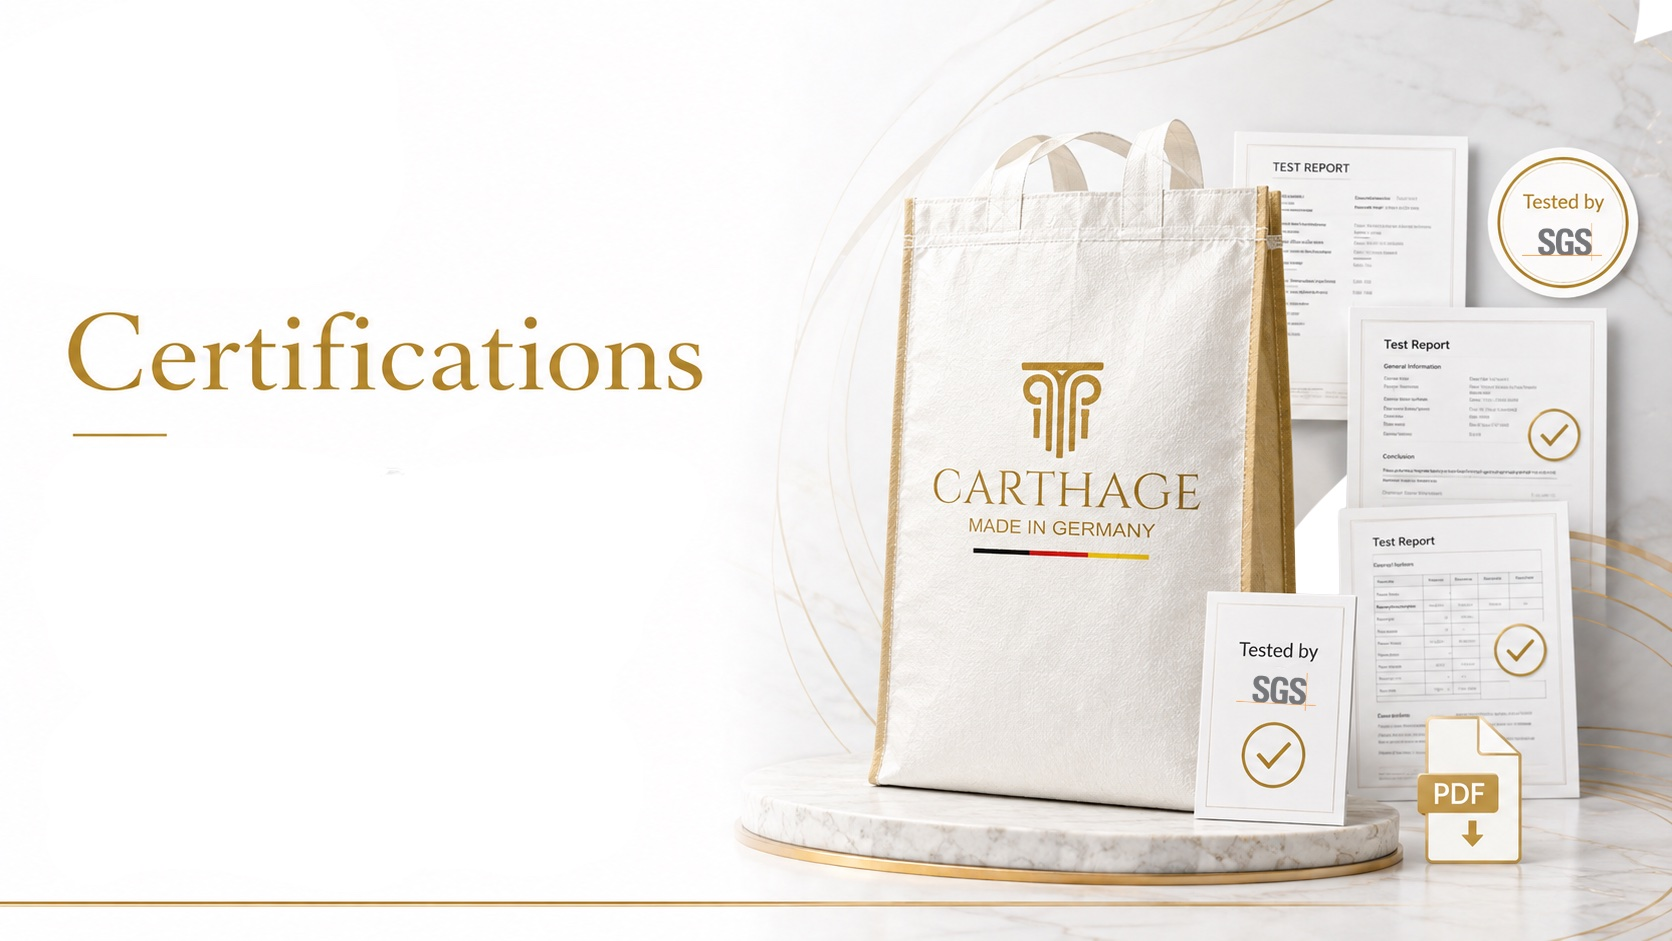
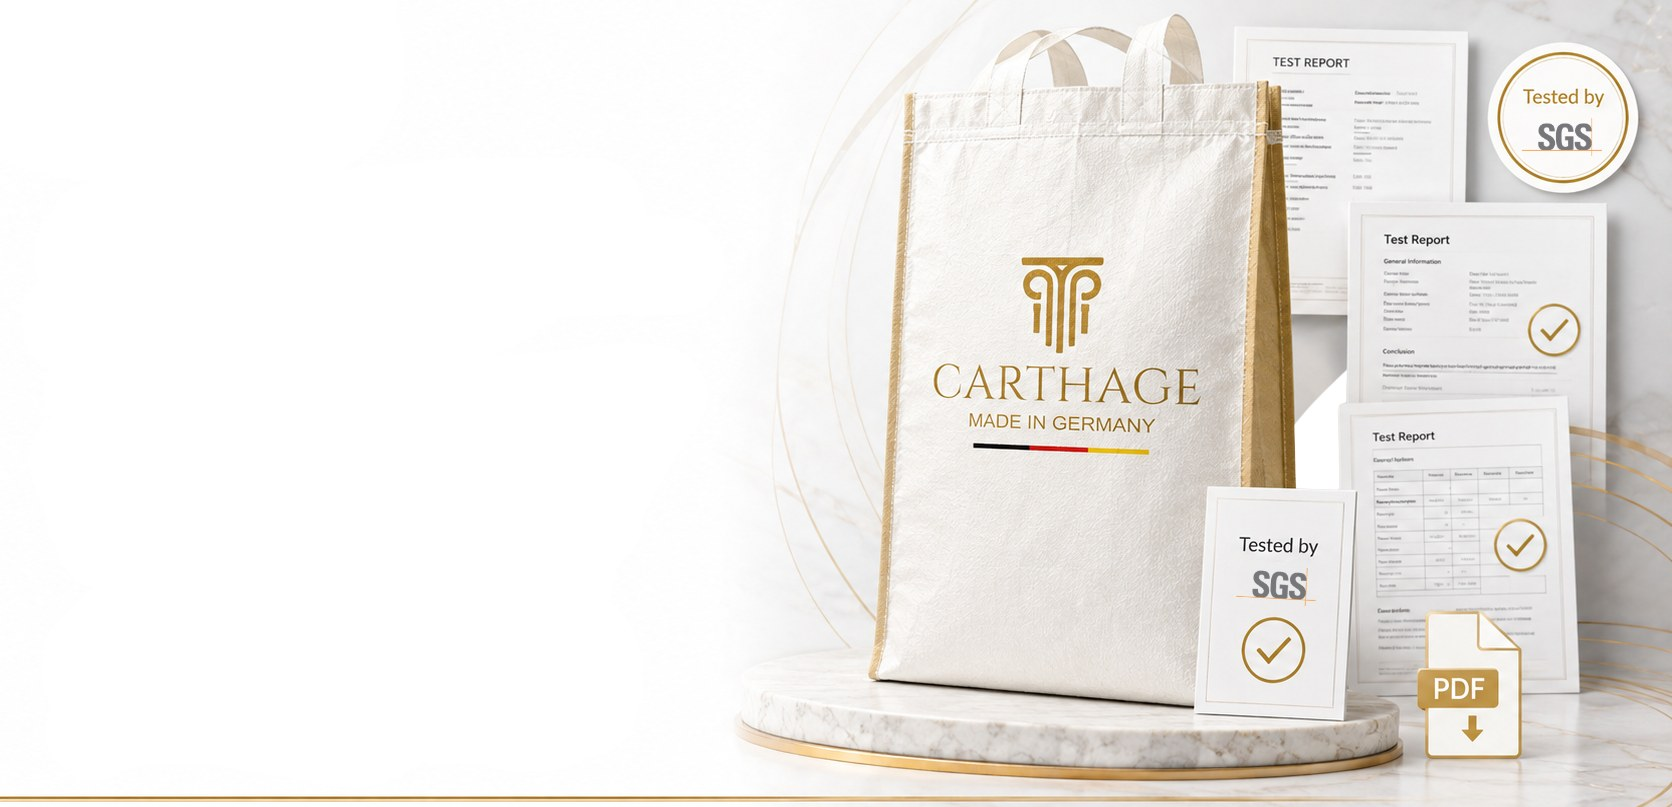
Overlay the certifications copy on the hero artwork
Swaps in the text-free banner and moves the heading and intro paragraph
onto the artwork's empty left half, so the hero reads as one composition
instead of an image stacked above a block of copy.

The section's top padding now matches the fixed navigation exactly
(81px), removing the 15px band of white that md:pt-24 left between the
header and the image.

Trims the banner's decorative top and bottom margins (941px -> 807px of
source height, nothing of the bag or the reports), which takes the hero
from 810px to 695px tall at a 1440px viewport.

Below md the banner is too short to hold the copy, so the same block
falls back into normal flow underneath the image rather than overlapping
the bag.

diff --git a/components/golden-bridge/certifications-hero.tsx b/components/golden-bridge/certifications-hero.tsx
@@ -3,49 +3,40 @@ import Image from "next/image"
 /**
  * Page-specific hero for /stone-paper/certifications.
  *
- * Unlike the shared PageHero, the artwork here is a finished banner that
- * already carries the "Certifications" wordmark, so it is rendered whole at
- * its native 16:9 ratio rather than cropped into a split layout. The intro
- * copy sits beneath it, and the real <h1> is visually hidden at the sizes
- * where the banner's own title is legible.
+ * The artwork leaves its left half empty by design, so the copy sits directly
+ * on top of it from md up. Below md the banner is too short to hold the copy,
+ * so the same block falls back into normal flow underneath the image.
  */
 export function CertificationsHero() {
   return (
-    <section className="pt-20 md:pt-24">
-      <h1 className="sr-only">Certifications and test reports</h1>
+    // Matches the fixed navigation's exact height (h-16 logo + py-2 + 1px
+    // border), so the artwork meets the header with no seam of white between.
+    <section className="pt-[81px]">
+      <div className="relative">
+        <Image
+          src="/stone-paper/certifications-hero.jpg"
+          alt="A Carthage stone paper bag on a marble plinth beside SGS test reports, a Tested by SGS seal and a PDF download mark"
+          width={1672}
+          height={807}
+          priority
+          sizes="100vw"
+          className="w-full h-auto"
+        />
 
-      <Image
-        src="/stone-paper/certifications-hero.jpg"
-        alt="A Carthage stone paper bag on a marble plinth beside SGS test reports, a Tested by SGS seal and a PDF download mark"
-        width={1672}
-        height={941}
-        priority
-        sizes="100vw"
-        className="w-full h-auto"
-      />
-
-      <div className="px-6 md:px-12 lg:px-20 py-14 md:py-20 border-b border-border">
-        <div className="grid grid-cols-1 lg:grid-cols-12 gap-6 lg:gap-16">
-          <div className="lg:col-span-4">
-            <p className="text-[11px] tracking-[0.3em] uppercase text-muted-foreground/50">
+        <div className="px-6 py-12 md:absolute md:inset-0 md:flex md:items-center md:px-12 md:py-0 lg:px-20">
+          <div className="md:max-w-[44%] lg:max-w-lg">
+            <h1 className="text-[clamp(2rem,4vw,3.5rem)] font-extralight leading-[1.05] tracking-[-0.02em] text-foreground text-balance">
               Certifications
-            </p>
-            {/* The banner's own title shrinks below legibility on phones, so
-                restate it as text there only. */}
-            <p
-              aria-hidden="true"
-              className="md:hidden mt-4 text-3xl font-extralight tracking-tight text-foreground"
-            >
-              Independently tested.
-            </p>
-            <div className="hidden lg:block w-10 h-px bg-border mt-6" />
-          </div>
+            </h1>
 
-          <p className="lg:col-span-7 lg:col-start-6 max-w-2xl text-base md:text-lg leading-[1.75] text-muted-foreground font-light">
-            Our stone paper and PP woven composite bag has been tested by SGS, one of
-            the world&rsquo;s largest inspection and certification bodies. Every report
-            below is summarised on this page and available as a complete PDF.
-          </p>
+            <div className="w-16 h-px bg-foreground/20 mt-6 mb-7 md:mt-5 md:mb-6" />
+
+            <p className="text-sm lg:text-base leading-[1.75] text-muted-foreground font-light">
+              Our stone paper and PP woven composite bag has been tested by SGS, one of
+              the world&rsquo;s largest inspection and certification bodies. Every report
+              below is summarised on this page and available as a complete PDF.
+            </p>
+          </div>
         </div>
       </div>
     </section>

diff --git a/app/stone-paper/certifications/page.tsx b/app/stone-paper/certifications/page.tsx
@@ -26,7 +26,7 @@ export default function CertificationsPage() {
       <CertificationsHero />
 
       {/* Report cards */}
-      <section className="px-6 pt-20 pb-24 md:px-12 lg:px-20 md:pt-24 md:pb-32">
+      <section className="px-6 pt-24 pb-24 md:px-12 lg:px-20 md:pt-32 md:pb-32">
         <SectionHeading
           eyebrow="SGS Test Reports"
           title="Three reports, issued August 2026."
